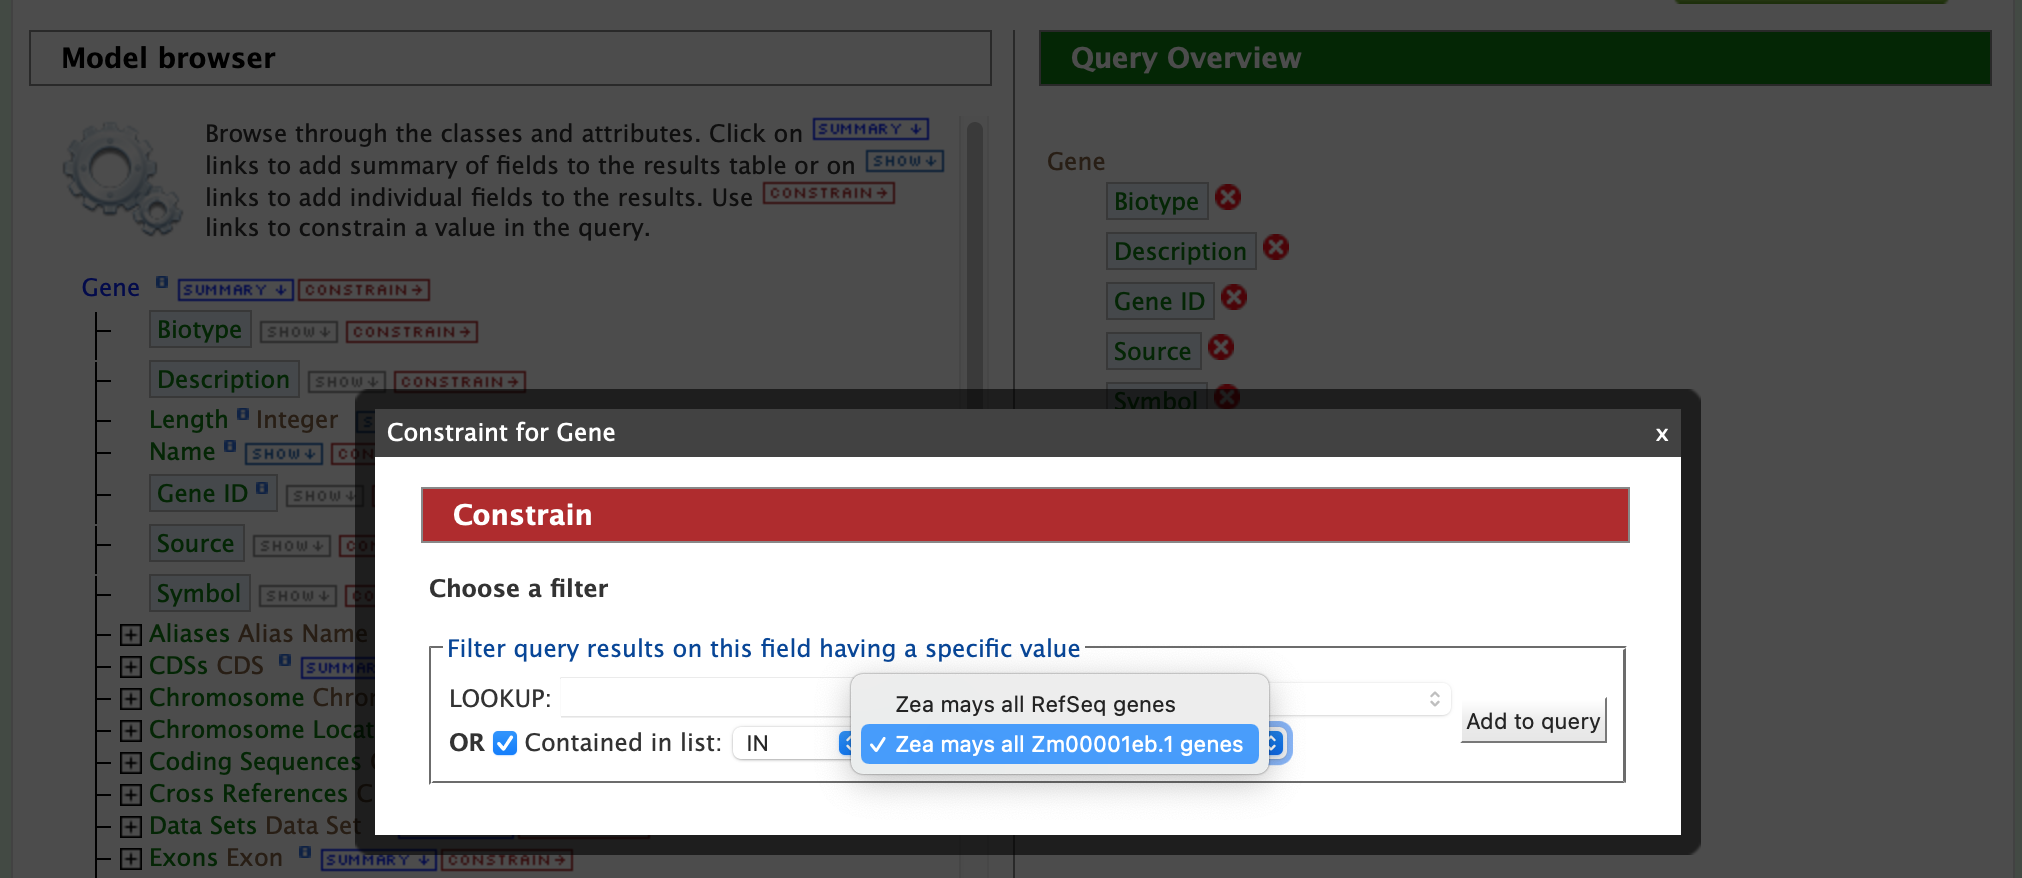
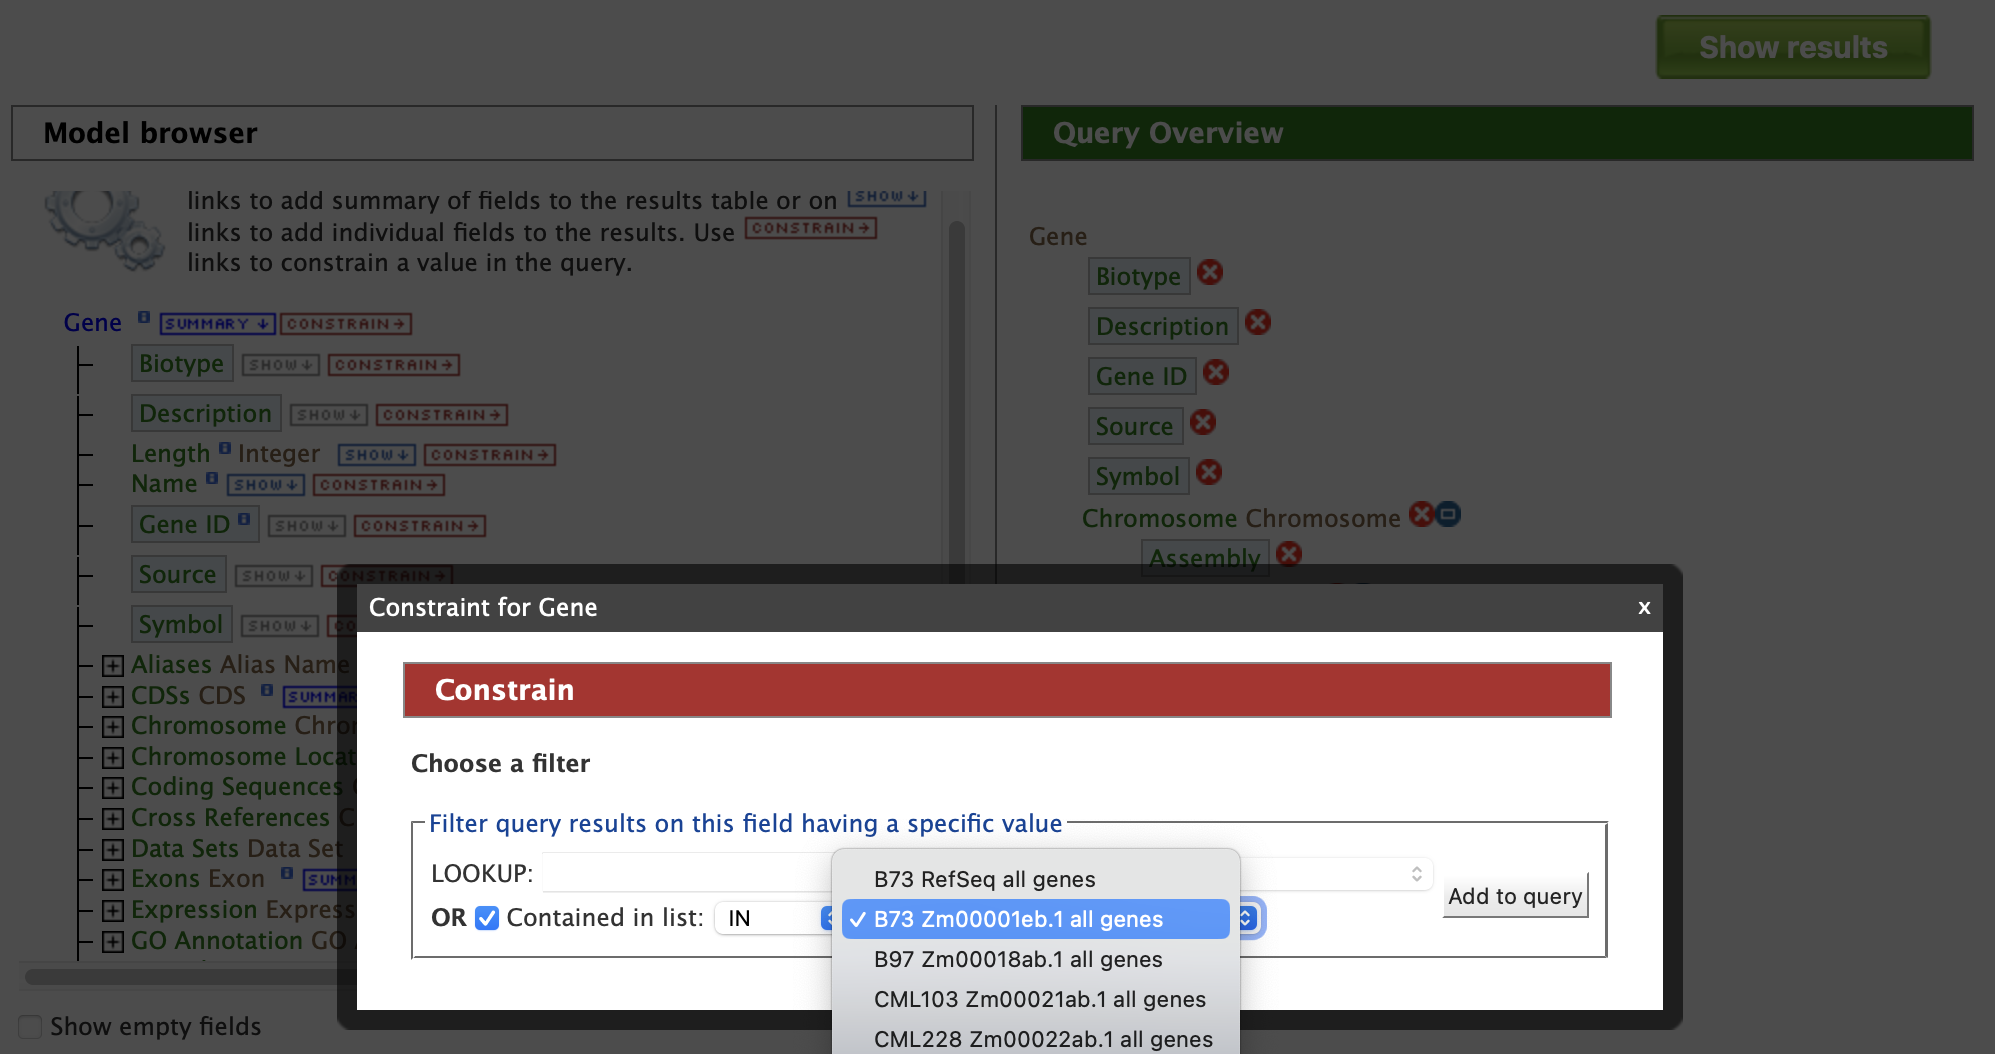
Updated documentation for MaizeMine v1.6 release

Changed region(s): [[0.0, 0.0, 0.9945, 1.0], [0.4972, 0.2153, 0.6526, 0.3998], [0.7148, 0.7688, 0.808, 0.8918]]

diff --git a/docs/index.md b/docs/index.md
@@ -45,7 +45,7 @@ The results page is tabulated below and shows a summary of the query.
 
 ![Search Results](./images/fig3_Quick_Search_bz1_results.png "Search Results")
 
-The results may be filtered based on "Category" or "Organism" (red box). The score column in the result table indicates the similarity of the query to the result fetched by MaizeMine.
+The results may be filtered based on "Category", "Assembly", or "Organism" (red box). The score column in the result table indicates the similarity of the query to the result fetched by MaizeMine.
 
 The results page can also be converted to a list. To enable this feature click on "Gene" in "Hits by Category" section marked with a red box.
 
@@ -61,7 +61,7 @@ In addition to the Quick Search box, users can make use of templates which are p
 To utilize this template, which is shown in the figure below, users only need to enter the gene model name (DB identifier) for their gene of interest and click the "Show Results" button.  In addition to information on gene expression, detailed information will be returned on the sample growth stage, organ group, and plant ontology (PO) terms.
 
 ![Gene Expression Search](./images/fig5_gene_expression_template.png "Gene Expression Search")
-The result page returns gene expression values in FPKP for 91 tissues. The layout of the results table may be customized by clicking on "Manage Columns" (Box 1). Users may generate the code for the query in Perl, Python, Java, Ruby, JavaScript or XML (Box 2). The search results can be downloaded by clicking on "Export" (Box 3). The format options for the results download file are tab-separated (.tsv), comma-separated values (.csv), XML, or JSON.  Additionally, if the results are genomic features, then the results can be downloaded in GFF3 and BED format as well.
+The result page returns gene expression values in FPKM for 115 tissues. The layout of the results table may be customized by clicking on "Manage Columns" (Box 1). Users may generate the code for the query in Perl, Python, Java, Ruby, JavaScript or XML (Box 2). The search results can be downloaded by clicking on "Export" (Box 3). The format options for the results download file are tab-separated (.tsv), comma-separated values (.csv), XML, or JSON.  Additionally, if the results are genomic features, then the results can be downloaded in GFF3 and BED format as well.
 
 ![Gene Expression Search Results](./images/fig6_gene_expression_template_results.png "Gene Expression Search Results")
 
@@ -93,7 +93,7 @@ In this example, the results are restricted to protein genes in the Zm00001eb.1 
 
 ![Constraining the search to all Zm00001eb.1 Genes](./images/fig11_querybuilder_constrain_biotypeV5.png "Constraining a search to all Zm00001eb.1 Genes") 
 
-Then click "Add to query". Note that the "Query Overview" section has been updated to reflect the selected attributes and query constraint. The "Summary" tab for Genes automatically adds the Gene attributes DB Identifier, Source, Biotype, Symbol, and Name, along with the Organism name and Chromosome assembly linked to the genes. At the top of the Query Overview , "IN Zea mays all Zm00001eb.1 genes" appears just below "Gene" as a constraint for this query. Next click on the "Constrain" tab for "Biotype" and select "protein_coding" from the dropdown as shown in the figure below. 
+Then click "Add to query". Note that the "Query Overview" section has been updated to reflect the selected attributes and query constraint. The "Summary" tab for Genes automatically adds the Gene attributes DB Identifier, Source, Biotype, Symbol, and Name, along with the Organism name and Chromosome assembly linked to the genes. At the top of the Query Overview , "IN B73 Zm00001eb.1 all genes" appears just below "Gene" as a constraint for this query. Next click on the "Constrain" tab for "Biotype" and select "protein_coding" from the dropdown as shown in the figure below. 
 
 ![Restricting the search to protein-coding genes](./images/fig12_querybuilder_constrain_protein.png "Restricting the search to protein-coding genes")
 
@@ -223,11 +223,15 @@ The Genomic Regions Search, shown in the figure below, is a tool to fetch featur
 
 The coordinates must be of the format:
 
-``chr#:start..end`` (e.g. ``chr3:114909387..117230788`` or ``chr3:114,909,387..117,230,788``)
+``chr#:start..end`` (e.g., ``chr1:29733..37349``) 
 
 OR
 
-``chr#:start-end`` (e.g. ``chr3:114909387-117230788`` or ``chr3:114,909,387-117,230,788``)
+``chr#:start-end`` (e.g., ``chr1:29733-37349``)
+
+OR
+
+``chr#:start	end`` (tab delimited, e.g., ``chr1	29733	37349``)
 
 Click on one of the "example for input format" links for a representative set of genomic coordinates in that format.  It is also possible to upload a file with a list of coordinates.
 
@@ -288,6 +292,8 @@ MyMine serves as a password-protected portal for users to manage their lists, qu
 
 An API is available for users who would like to programmatically access MaizeMine.  Perl, Python, Ruby, and Java are the languages supported by the InterMine API.  For more information on the details of the API visit the [Intermine website](http://intermine.org/).
 
+Additionally, some Python examples using the MaizeMine API are available in the [intermine-api-python-examples](https://github.com/elsiklab/intermine-api-python-examples/tree/main/maizemine) repository on GitHub.
+
 ![API Access](./images/fig33_api.png "API Access")
 
 ## **Data Sources**
@@ -298,4 +304,4 @@ The Data Sources page provides a description of the datasets that are integrated
 
 ----------
 
-© Copyright 2022, Jack Gardiner, Justin Le Tourneau, Md Shamimuzzaman, Aditi Tayal, Deepak Unni, Colin Diesh, Chris Elsik, Darren Hagen.
+© Copyright 2024, Elsik lab.
